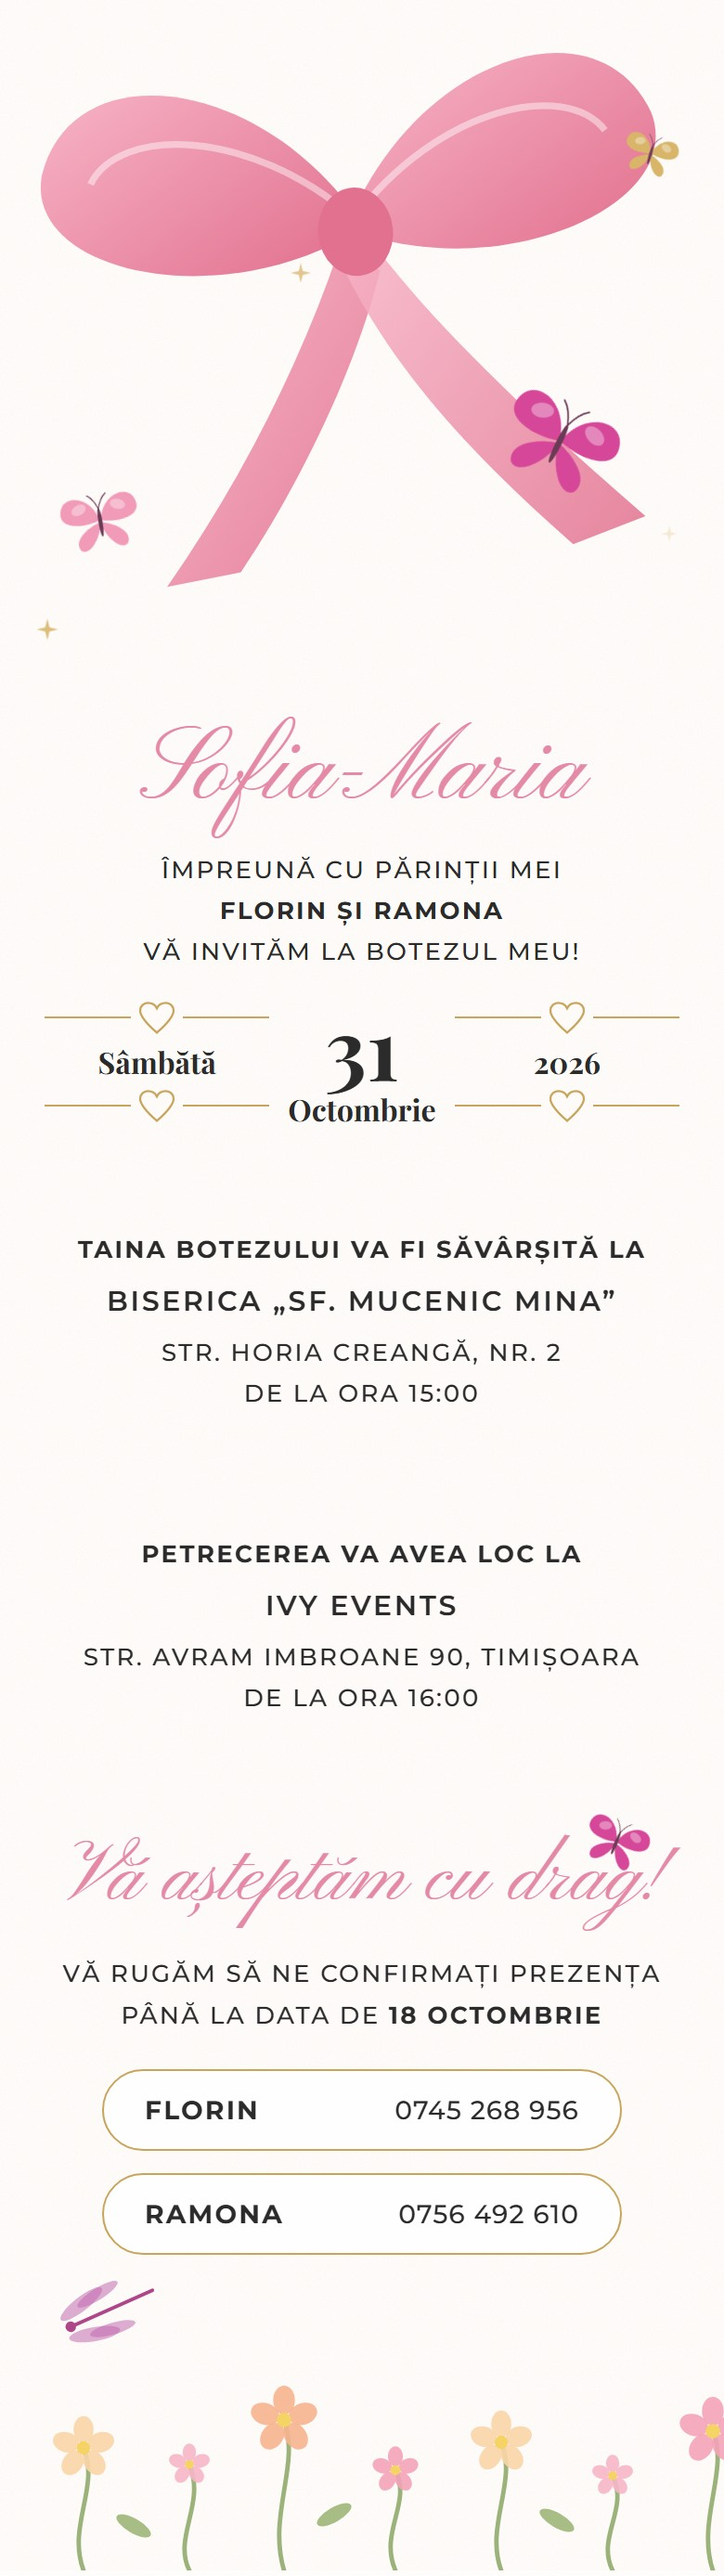
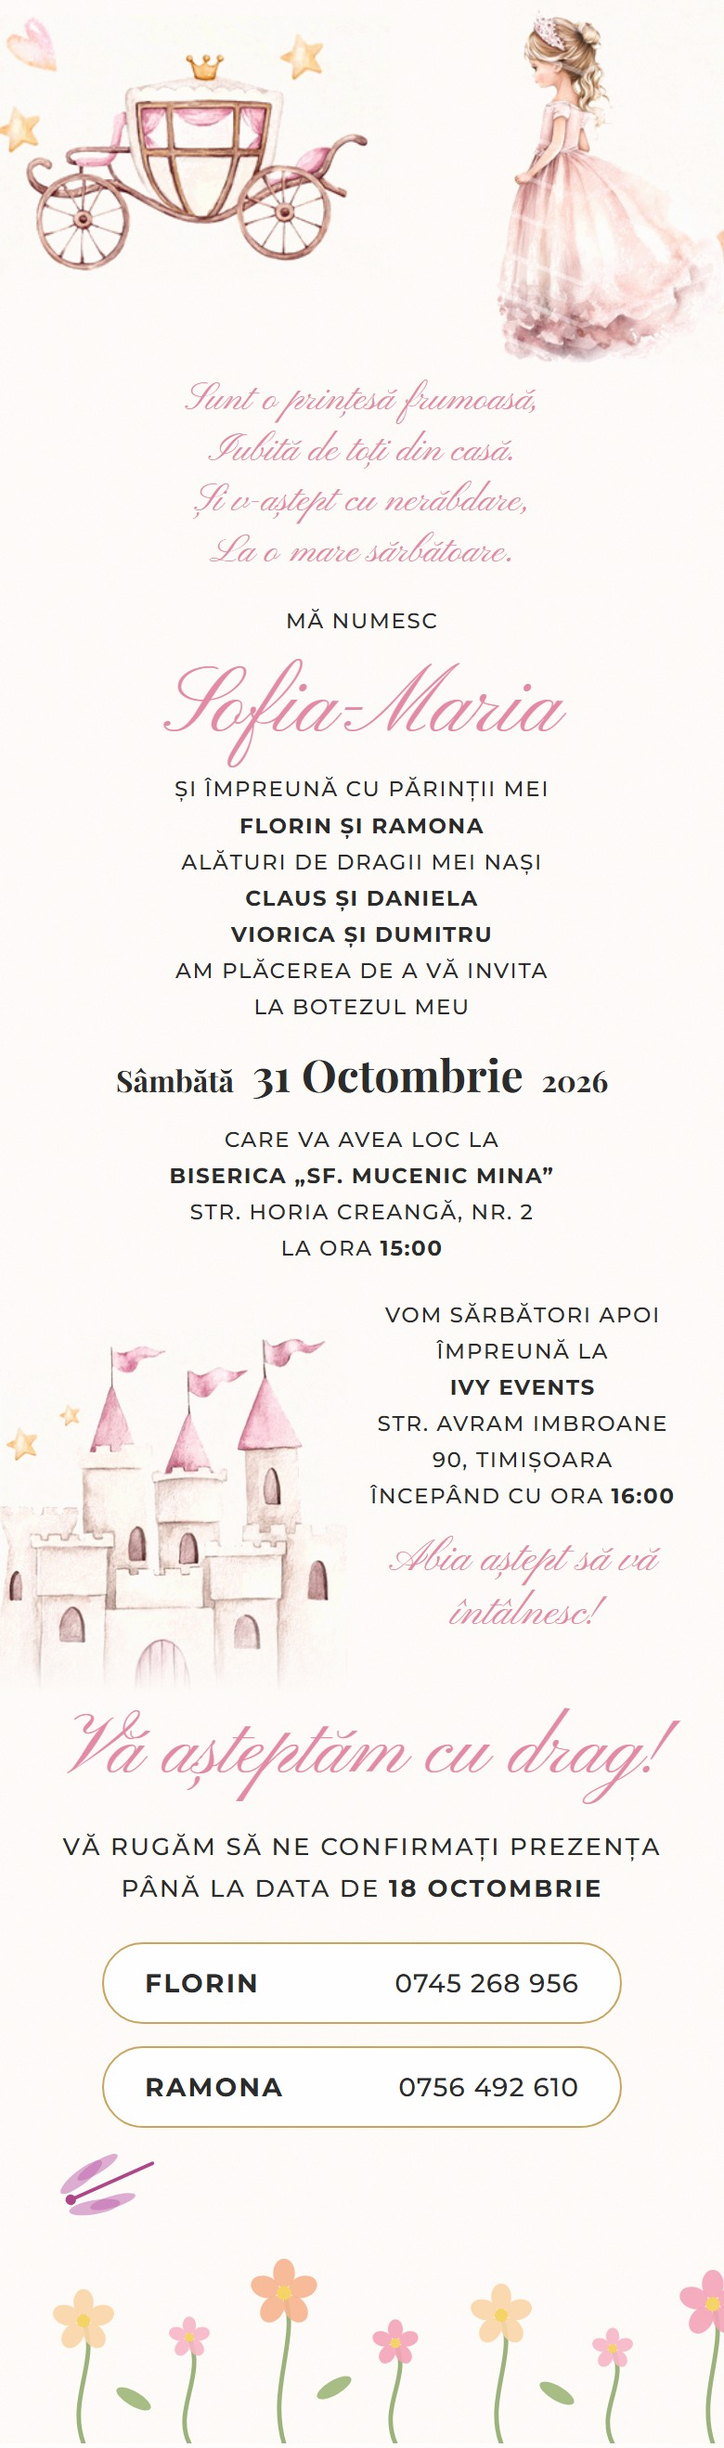
schimbare template printesa

diff --git a/index.html b/index.html
@@ -174,6 +174,29 @@
       <a class="map-link" href="https://www.google.com/maps/search/?api=1&amp;query=Ivy+Events%2C+Str.+Avram+Imbroane+90%2C+Timisoara" target="_blank" rel="noopener">Vezi pe hart&#259;</a>
     </section>
 
+    <section class="slide slide-princess">
+      <div class="art-top">
+        <img class="art-carriage" src="img/caleasca.png" alt="" width="300" height="202" loading="lazy">
+        <img class="art-princess" src="img/printesa.png" alt="" width="220" height="331" loading="lazy">
+      </div>
+
+      <p class="poem">Sunt o prin&#539;es&#259; frumoas&#259;,<br>Iubit&#259; de to&#539;i din cas&#259;.<br>&#536;i v-a&#537;tept cu ner&#259;bdare,<br>La o mare s&#259;rb&#259;toare.</p>
+
+      <p class="invite">m&#259; numesc</p>
+      <h2 class="child-name">Sofia-Maria</h2>
+      <p class="invite">&#537;i &icirc;mpreun&#259; cu p&#259;rin&#539;ii mei<br><strong>Florin &#537;i Ramona</strong><br>al&#259;turi de dragii mei na&#537;i<br><strong>Claus &#537;i Daniela</strong><br><strong>Viorica &#537;i Dumitru</strong><br>am pl&#259;cerea de a v&#259; invita<br>la botezul meu</p>
+      <p class="date-line"><span>S&#226;mb&#259;t&#259;</span> <strong>31 Octombrie</strong> <span>2026</span></p>
+      <p class="invite">care va avea loc la<br><strong>Biserica &bdquo;Sf. Mucenic Mina&rdquo;</strong><br>Str. Horia Creang&#259;, Nr. 2<br>la ora <strong>15:00</strong></p>
+
+      <div class="art-bottom">
+        <img class="art-castle" src="img/castel.png" alt="" width="380" height="396" loading="lazy">
+        <div class="party-col">
+          <p class="invite">vom s&#259;rb&#259;tori apoi &icirc;mpreun&#259; la<br><strong>Ivy Events</strong><br>Str. Avram Imbroane 90, Timi&#537;oara<br>&icirc;ncep&#226;nd cu ora <strong>16:00</strong></p>
+          <p class="script-note">Abia a&#537;tept s&#259; v&#259; &icirc;nt&#226;lnesc!</p>
+        </div>
+      </div>
+    </section>
+
     <section class="slide slide-rsvp">
       <svg class="bow bow-corner" aria-hidden="true"><use href="#bow"></use></svg>
       <svg class="butterfly b-magenta-sm" aria-hidden="true"><use href="#butterfly"></use></svg>
@@ -203,6 +226,7 @@
       <button class="dot" data-index="1" aria-label="Slide 2"></button>
       <button class="dot" data-index="2" aria-label="Slide 3"></button>
       <button class="dot" data-index="3" aria-label="Slide 4"></button>
+      <button class="dot" data-index="4" aria-label="Slide 5"></button>
     </div>
     <button class="nav-btn" id="nextBtn" aria-label="Slide urm&#259;tor">&#10095;</button>
   </div>

diff --git a/style.css b/style.css
@@ -223,6 +223,56 @@ body {
 .contact-name { font-weight: 700; font-size: 14px; letter-spacing: 0.08em; text-transform: uppercase; color: var(--ink); }
 .contact-phone { font-size: 14px; letter-spacing: 0.04em; color: var(--ink); }
 
+/* Princess slide: same fonts and paper background as every other slide */
+.slide-princess {
+  justify-content: flex-start;
+  padding: 0 20px 0;
+}
+.slide-princess > * { flex-shrink: 0; }
+.art-top {
+  position: relative;
+  align-self: stretch;
+  height: 196px;
+  margin: 0 -20px 6px;
+}
+.art-carriage { position: absolute; left: 0; top: 8px; width: 54%; height: auto; }
+.art-princess { position: absolute; right: 0; top: 0; height: 196px; width: auto; }
+
+.poem {
+  font-family: 'Pinyon Script', cursive;
+  font-size: 21px;
+  line-height: 1.3;
+  color: var(--pink);
+  margin-bottom: 14px;
+}
+.slide-princess .invite { font-size: 11.5px; letter-spacing: 0.07em; margin-bottom: 10px; }
+.slide-princess .child-name { font-size: 50px; margin-bottom: 6px; }
+
+.date-line {
+  font-family: 'Playfair Display', serif;
+  font-weight: 700;
+  color: var(--ink);
+  margin-bottom: 10px;
+}
+.date-line span { font-size: 16px; }
+.date-line strong { font-size: 24px; margin: 0 6px; }
+
+.art-bottom {
+  display: flex;
+  align-items: flex-end;
+  align-self: stretch;
+  margin: 6px -20px 0;
+}
+.art-castle { flex: none; width: 48%; height: auto; }
+.party-col { flex: 1; padding: 0 20px 70px 6px; }
+.script-note {
+  font-family: 'Pinyon Script', cursive;
+  font-size: 24px;
+  line-height: 1.2;
+  color: var(--pink);
+  margin-top: 4px;
+}
+
 /* Navigation */
 .nav {
   position: absolute;

diff --git a/script.js b/script.js
@@ -45,16 +45,20 @@
   });
 
   var touchStartX = 0;
+  var touchStartY = 0;
   var swipeThreshold = 40;
 
   carousel.addEventListener('touchstart', function (e) {
     touchStartX = e.changedTouches[0].screenX;
+    touchStartY = e.changedTouches[0].screenY;
   }, { passive: true });
 
   carousel.addEventListener('touchend', function (e) {
-    var delta = e.changedTouches[0].screenX - touchStartX;
-    if (Math.abs(delta) > swipeThreshold) {
-      moveSlide(delta < 0 ? 1 : -1);
+    var deltaX = e.changedTouches[0].screenX - touchStartX;
+    var deltaY = e.changedTouches[0].screenY - touchStartY;
+    // A mostly vertical gesture is a scroll inside a tall slide, not a slide change.
+    if (Math.abs(deltaX) > swipeThreshold && Math.abs(deltaX) > Math.abs(deltaY)) {
+      moveSlide(deltaX < 0 ? 1 : -1);
     }
   }, { passive: true });
 

diff --git a/CLAUDE.md b/CLAUDE.md
@@ -2,7 +2,15 @@
 
 > Adauga la regulile globale din ~/.claude/CLAUDE.md, nu le inlocuieste.
 
-## 1. Mobile-first (MUST)
+## 1. Format: Carousel (MUST)
+
+Invitatia are formatul **Carousel**: slide-uri orizontale (intro, biserica,
+petrecere, printesa, RSVP - in aceasta ordine, RSVP ramane ultimul) cu navigare prin swipe, sageti, puncte si tastatura. Nu se
+trece la pagina lunga cu scroll vertical si nu se elimina caruselul, decat la
+cererea explicita a userului. Adaugarea/stergerea unui slide se reflecta in
+`index.html` (sectiuni + puncte de navigare), `style.css` si `script.js`.
+
+## 2. Mobile-first (MUST)
 
 Site-ul e o invitatie digitala trimisa pe WhatsApp/mesaje si deschisa aproape
 exclusiv pe telefon. Optimizarea pentru mobil este prioritatea nr. 1.
@@ -18,7 +26,7 @@ exclusiv pe telefon. Optimizarea pentru mobil este prioritatea nr. 1.
 - Orice adaugire noua (sectiune, buton, imagine) se verifica intai la latime
   de mobil, apoi la desktop.
 
-## 2. Diacritice romanesti in text (exceptie de la regula ASCII globala)
+## 3. Diacritice romanesti in text (exceptie de la regula ASCII globala)
 
 Regula globala ASCII-only ramane in vigoare pentru cod, comentarii, mesaje de
 commit etc. Pentru **textul vizibil pe pagina** (titluri, paragrafe, butoane,
@@ -34,10 +42,14 @@ ceara aprobare din nou per ocurenta.
 - Codul (nume de clase/id-uri, comentarii, variabile JS/CSS) ramane ASCII
   simplu, fara diacritice.
 
-## 3. Testare obligatorie dupa fiecare modificare (MUST)
+## 4. Testare obligatorie dupa fiecare modificare (MUST)
 
-Dupa orice schimbare in `index.html`, `style.css` sau `script.js`, verifica
-inainte de a declara task-ul terminat:
+Dupa orice schimbare in `index.html`, `style.css` sau `script.js`, linkurile
+si functionalitatea se reverifica, inainte de a declara task-ul terminat,
+folosind **Chrome sau Edge headless** (nu doar citind codul): randare la 390px
+(prin iframe, fereastra headless are minim ~500px) si un test automat care
+apasa sagetile/punctele, trimite taste si swipe si citeste starea rezultata.
+Verifica:
 
 - **Linkuri**: fiecare `href`/`src` intern (CSS, JS, fonturi) se rezolva; nu
   raman legaturi rupte catre fisiere sterse/redenumite.
@@ -51,15 +63,60 @@ inainte de a declara task-ul terminat:
 - **ASCII check**: `grep -n '[^ -~\t]' index.html style.css script.js`
   trebuie sa nu gaseasca nimic (diacriticele sunt entitati ASCII, deci raman
   in afara acestui grep).
-- **invitatie-botez.jpg**: imaginea statica cu toate datele (nume, parinti,
-  data, biserica, petrecere, RSVP). Orice schimbare de continut in
-  `index.html` (ex. adaugarea nasilor) cere regenerarea ei, altfel ramane
-  invechita. Se genereaza din aceleasi HTML/CSS, aplatizat intr-un singur card
-  de 390px latime, randat cu Chrome headless la scara 2x (780px), salvat JPEG
-  calitate 92, fara butoanele "Vezi pe harta".
-- Chrome/Edge headless exista pe aceasta masina si permit test vizual real
-  (randare la 390px prin iframe, deoarece fereastra headless are minim ~500px).
+- Chrome si Edge exista pe aceasta masina (C:\Program Files\Google\Chrome,
+  C:\Program Files (x86)\Microsoft\Edge).
 - Daca in mediul curent nu exista unealta de browser automation (Playwright
   etc.) sau server local (Node/Python) pentru a testa vizual, spune explicit
   userului ce NU a fost testat vizual, in loc sa declari succesul fara sa
   verifici. Nu presupune ca merge doar pentru ca fisierele arata corect.
+
+## 5. Imaginea JPEG se regenereaza la fiecare schimbare de template (MUST)
+
+`invitatie-botez.jpg` este imaginea statica principala a invitatiei, cu toate
+datele (nume, parinti, nasi, data, biserica, petrecere, RSVP). La **orice
+schimbare de template** - continut, text, stil, decor sau layout in
+`index.html`/`style.css`/`img/` - JPEG-ul se regenereaza in aceeasi
+interventie, altfel ramane invechit fata de site.
+
+- Continut: slide-ul "printesa" urmat de slide-ul "RSVP", aplatizate intr-un
+  singur card vertical (celelalte slide-uri repeta aceleasi date si nu intra
+  in imagine). Baza fondului castelului se estompeaza in hartie ca sa nu apara
+  o margine taiata.
+- Se genereaza din aceleasi HTML/CSS, la 390px latime, randat cu Chrome/Edge
+  headless la scara 2x (780px), decupat exact pe inaltimea cardului si salvat
+  JPEG calitate 92.
+- In imagine nu apar butoanele de navigare si "Vezi pe harta".
+- Dupa regenerare, imaginea se deschide si se verifica vizual (text complet,
+  diacritice corecte, fara zone taiate).
+
+## 6. Uniformitate vizuala (MUST)
+
+Toate slide-urile arata ca o singura invitatie. La orice slide nou sau
+modificat se pastreaza:
+
+- **Acelasi font**: doar cele 3 familii deja folosite - Pinyon Script (nume,
+  titluri si replici script), Playfair Display (date, cifre mari) si
+  Montserrat (text curent, majuscule). Nu se adauga alte fonturi si nu se
+  copiaza fontul din sabloanele externe.
+- **Acelasi fundal/template**: hartie crem cu textura fina (`--paper` +
+  zgomot pe `.carousel-container`). Slide-urile nu au fundal propriu; nu se
+  pun dreptunghiuri de imagine cu fundalul lor.
+- **Aceeasi paleta**: doar variabilele CSS din `:root` (roz, auriu, cerneala).
+- Verificarea de fonturi face parte din testul headless: elementele cu text
+  din slide-uri trebuie sa foloseasca strict cele 3 familii.
+
+## 7. Ilustratii din sabloane (img/)
+
+Ilustratiile din `Templates/printesa.jpg` (caleasca, printesa, castel) sunt
+folosite in slide-ul "printesa" ca **PNG transparent** din `img/`, ca sa
+stea pe fundalul comun.
+
+- Extragere: decupare + color-to-alpha pe culoarea hartiei din sablon
+  (RGB 246,243,237, prag 0.07), cu stergerea resturilor de text/nori din
+  jur; culorile se cuantizeaza usor ca PNG-ul sa fie mic.
+- Dimensiuni (~2x fata de afisare): caleasca 300x202, printesa 220x331,
+  castel 380x396; greutate totala sub ~400 KB. Imaginile au `width`/`height`
+  si `loading="lazy"`.
+- `Templates/` ramane sursa originala; se editeaza doar `img/` si slide-ul.
+- Slide-ul "printesa" este mai inalt decat ecranul si se deruleaza vertical in
+  interior; gestul vertical nu trebuie sa schimbe slide-ul (verificat in test).
